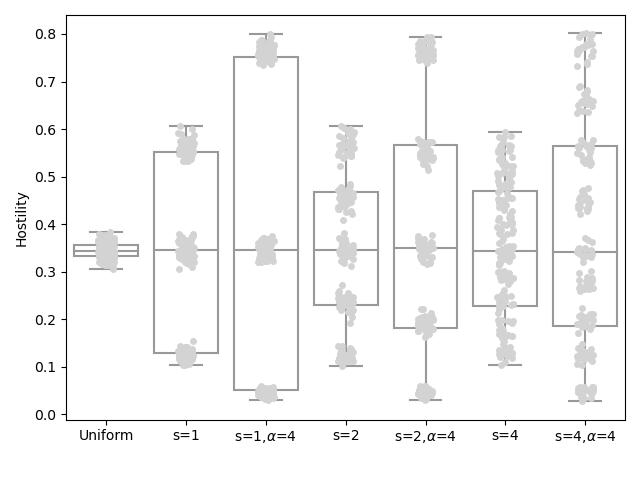
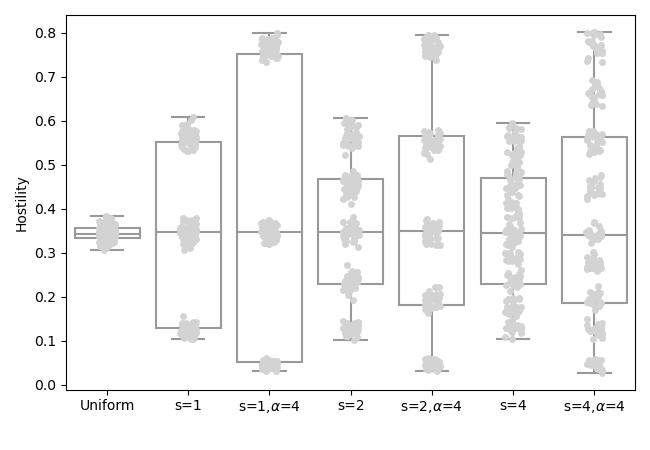
boxplot bootstrap sample correct dimension

diff --git a/ComplexitySamples_Analysis.py b/ComplexitySamples_Analysis.py
@@ -700,7 +700,7 @@ for data_i in data_list:
     df_long_host = df_long_host[~df_long_host.variable.str.contains("easy")]
     df_long_host = df_long_host[~df_long_host.variable.str.contains("hard")]
     df_long_host = df_long_host[~df_long_host.variable.str.contains("combo")]
-
+    plt.figure(figsize=(6.5, 4.5))
     ax = sns.boxplot(y=df_long_host["Complexity"], x=df_long_host["variable"],
                 order=['Uniform',
                        'Boots_Hostility_dataset_mean_split1_classic',
